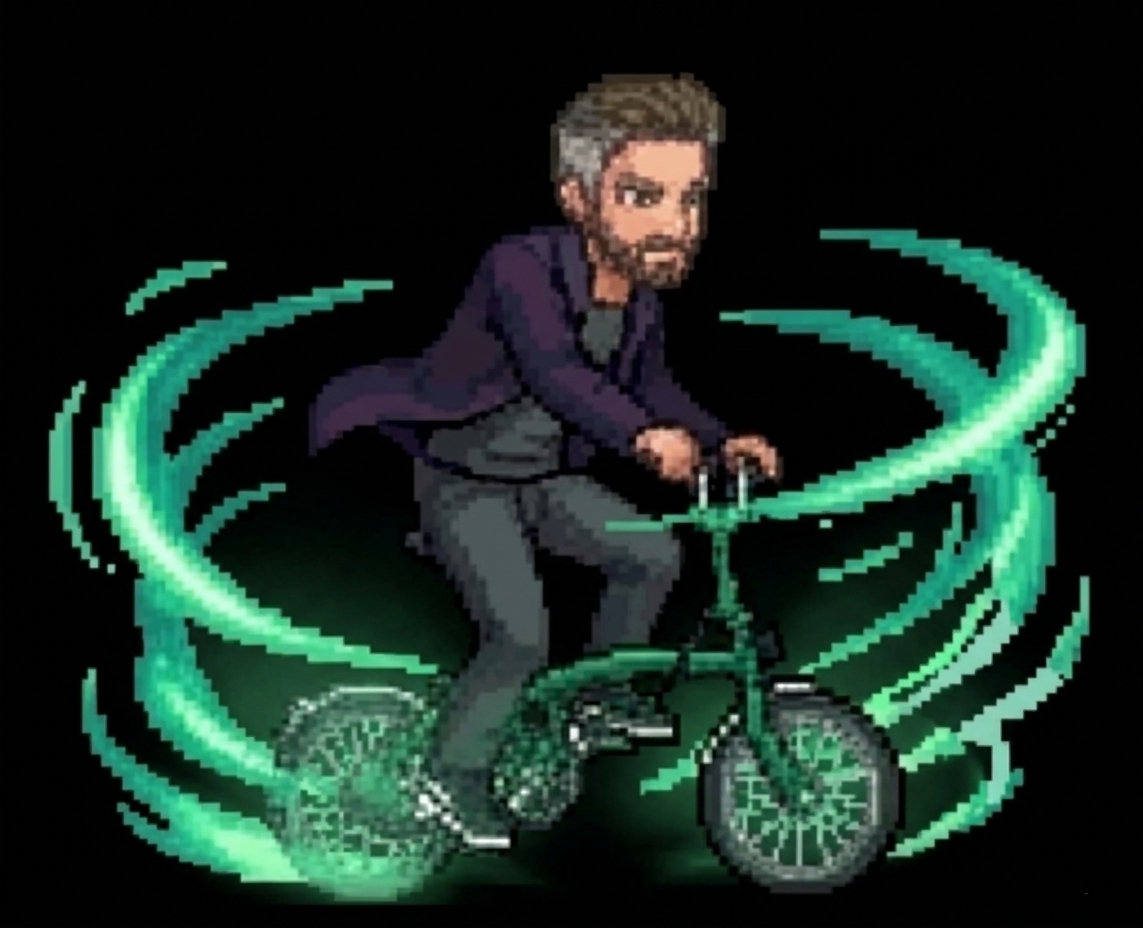
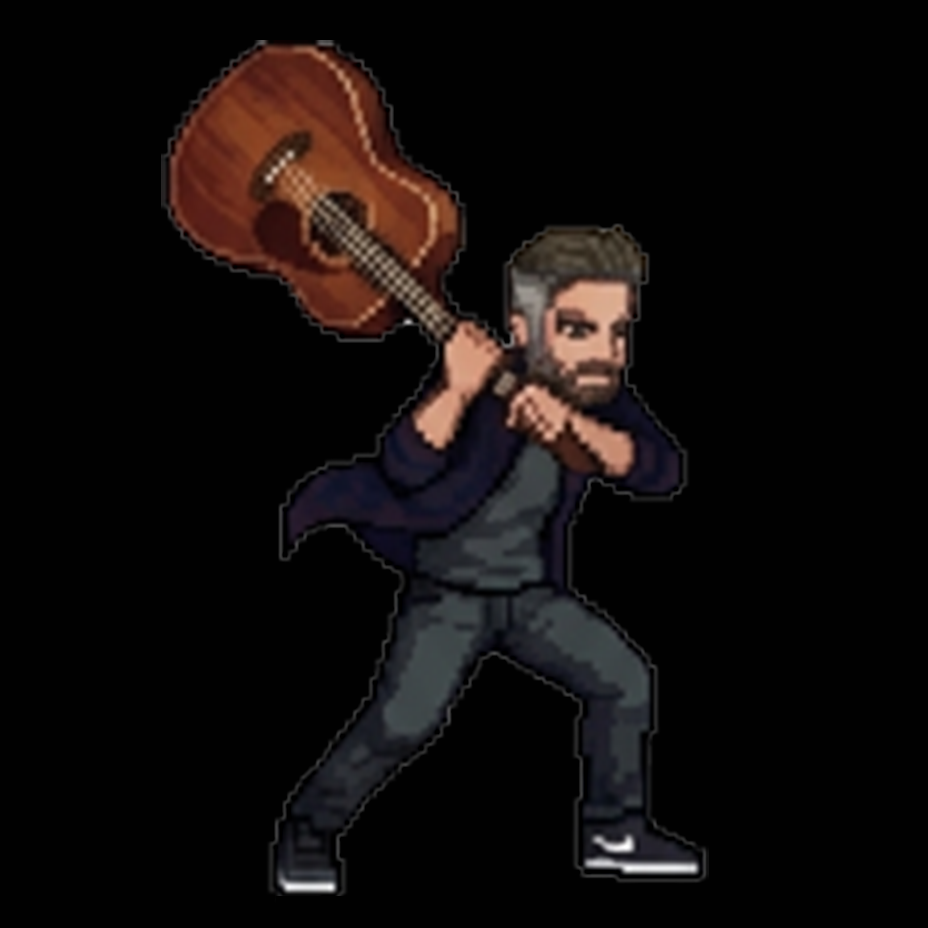
Beat Me Up: ESC back navigation on all menu screens

diff --git a/frontend/src/game/screens/CostumeSelectScreen.jsx b/frontend/src/game/screens/CostumeSelectScreen.jsx
@@ -36,13 +36,14 @@ const COSTUMES = {
 
 const ACCENT = { katie: '#c060ff', david: '#40c8ff' };
 
-export default function CostumeSelectScreen({ character, onSelect }) {
+export default function CostumeSelectScreen({ character, onSelect, onBack }) {
   const [cursor, setCursor] = useState(0);
   const costumes = COSTUMES[character] ?? COSTUMES.katie;
   const accent   = ACCENT[character] ?? '#fbbf24';
 
   useEffect(() => {
     const handler = (e) => {
+      if (e.code === 'Escape')                           { onBack(); return; }
       if (e.code === 'ArrowLeft'  || e.code === 'KeyA')
         setCursor(c => Math.max(0, c - 1));
       if (e.code === 'ArrowRight' || e.code === 'KeyD')
@@ -54,7 +55,7 @@ export default function CostumeSelectScreen({ character, onSelect }) {
     };
     window.addEventListener('keydown', handler);
     return () => window.removeEventListener('keydown', handler);
-  }, [cursor, costumes, onSelect]);
+  }, [cursor, costumes, onSelect, onBack]);
 
   return (
     <div
@@ -156,7 +157,7 @@ export default function CostumeSelectScreen({ character, onSelect }) {
 
       {/* Footer hint */}
       <p className="text-xs tracking-widest select-none" style={{ color: '#ffffff22' }}>
-        ←/→ NAVIGATE &nbsp;·&nbsp; ENTER SELECT
+        ←/→ NAVIGATE &nbsp;·&nbsp; ENTER SELECT &nbsp;·&nbsp; ESC BACK
       </p>
     </div>
   );

diff --git a/frontend/src/game/screens/LevelSelectScreen.jsx b/frontend/src/game/screens/LevelSelectScreen.jsx
@@ -53,11 +53,12 @@ export const LEVELS = [
   },
 ];
 
-export default function LevelSelectScreen({ onSelect }) {
+export default function LevelSelectScreen({ onSelect, onBack }) {
   const [cursor, setCursor] = useState(0);
 
   useEffect(() => {
     const handler = (e) => {
+      if (e.code === 'Escape')     { onBack(); return; }
       if (e.code === 'ArrowLeft')  setCursor(c => Math.max(0, c - 1));
       if (e.code === 'ArrowRight') setCursor(c => Math.min(LEVELS.length - 1, c + 1));
       if (e.code === 'ArrowUp')    setCursor(c => c - COLS >= 0 ? c - COLS : c);
@@ -69,7 +70,7 @@ export default function LevelSelectScreen({ onSelect }) {
     };
     window.addEventListener('keydown', handler);
     return () => window.removeEventListener('keydown', handler);
-  }, [cursor, onSelect]);
+  }, [cursor, onSelect, onBack]);
 
   return (
     <div
@@ -177,7 +178,7 @@ export default function LevelSelectScreen({ onSelect }) {
 
       {/* Footer hint */}
       <p className="text-xs tracking-widest select-none" style={{ color: '#ffffff22' }}>
-        ←↑↓→ NAVIGATE &nbsp;·&nbsp; ENTER SELECT
+        ←↑↓→ NAVIGATE &nbsp;·&nbsp; ENTER SELECT &nbsp;·&nbsp; ESC BACK
       </p>
     </div>
   );

diff --git a/frontend/src/game/screens/CharacterSelectScreen.jsx b/frontend/src/game/screens/CharacterSelectScreen.jsx
@@ -28,12 +28,13 @@ const CHARACTERS = [
   },
 ];
 
-export default function CharacterSelectScreen({ onSelect }) {
+export default function CharacterSelectScreen({ onSelect, onBack }) {
   const [cursor, setCursor] = useState(0);
   const [confirm, setConfirm] = useState(false);
 
   useEffect(() => {
     const handler = (e) => {
+      if (e.code === 'Escape')                           { onBack(); return; }
       if (e.code === 'ArrowLeft'  || e.code === 'KeyA') setCursor(0);
       if (e.code === 'ArrowRight' || e.code === 'KeyD') setCursor(1);
       if (e.code === 'Enter') {
@@ -43,7 +44,7 @@ export default function CharacterSelectScreen({ onSelect }) {
     };
     window.addEventListener('keydown', handler);
     return () => window.removeEventListener('keydown', handler);
-  }, [cursor, onSelect]);
+  }, [cursor, onSelect, onBack]);
 
   return (
     <div
@@ -137,7 +138,7 @@ export default function CharacterSelectScreen({ onSelect }) {
 
       {/* Controls hint */}
       <p className="text-xs tracking-widest text-white/20 mt-4">
-        ←/→ SELECT &nbsp;·&nbsp; ENTER CONFIRM
+        ←/→ SELECT &nbsp;·&nbsp; ENTER CONFIRM &nbsp;·&nbsp; ESC BACK
       </p>
     </div>
   );

diff --git a/frontend/src/game/GameContainer.jsx b/frontend/src/game/GameContainer.jsx
@@ -183,13 +183,13 @@ export default function GameContainer() {
         <TitleScreen onStart={goCharSelect} />
       )}
       {phase === 'character_select' && (
-        <CharacterSelectScreen onSelect={goCostumeSelect} />
+        <CharacterSelectScreen onSelect={goCostumeSelect} onBack={goTitle} />
       )}
       {phase === 'costume_select' && (
-        <CostumeSelectScreen character={character} onSelect={goLevelSelect} />
+        <CostumeSelectScreen character={character} onSelect={goLevelSelect} onBack={goCharSelect} />
       )}
       {phase === 'level_select' && (
-        <LevelSelectScreen onSelect={goGame} />
+        <LevelSelectScreen onSelect={goGame} onBack={() => setPhase('costume_select')} />
       )}
       {phase === 'game' && (
         <GameScreen
